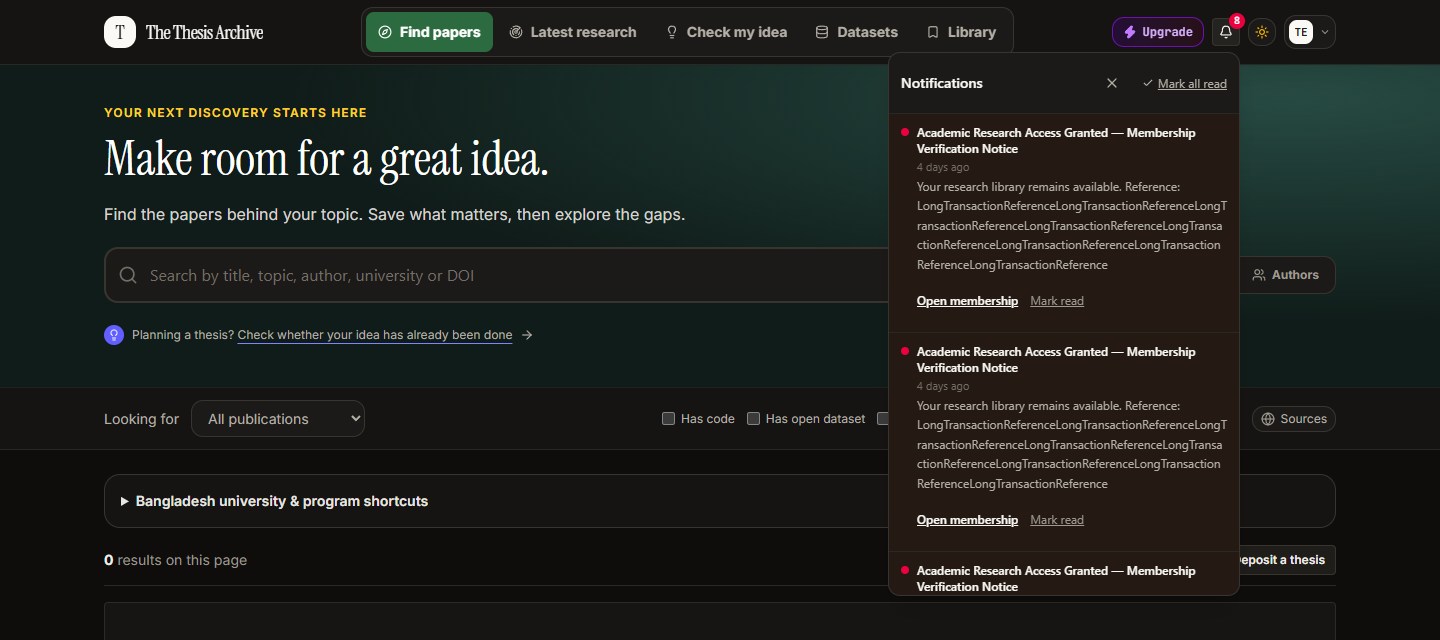
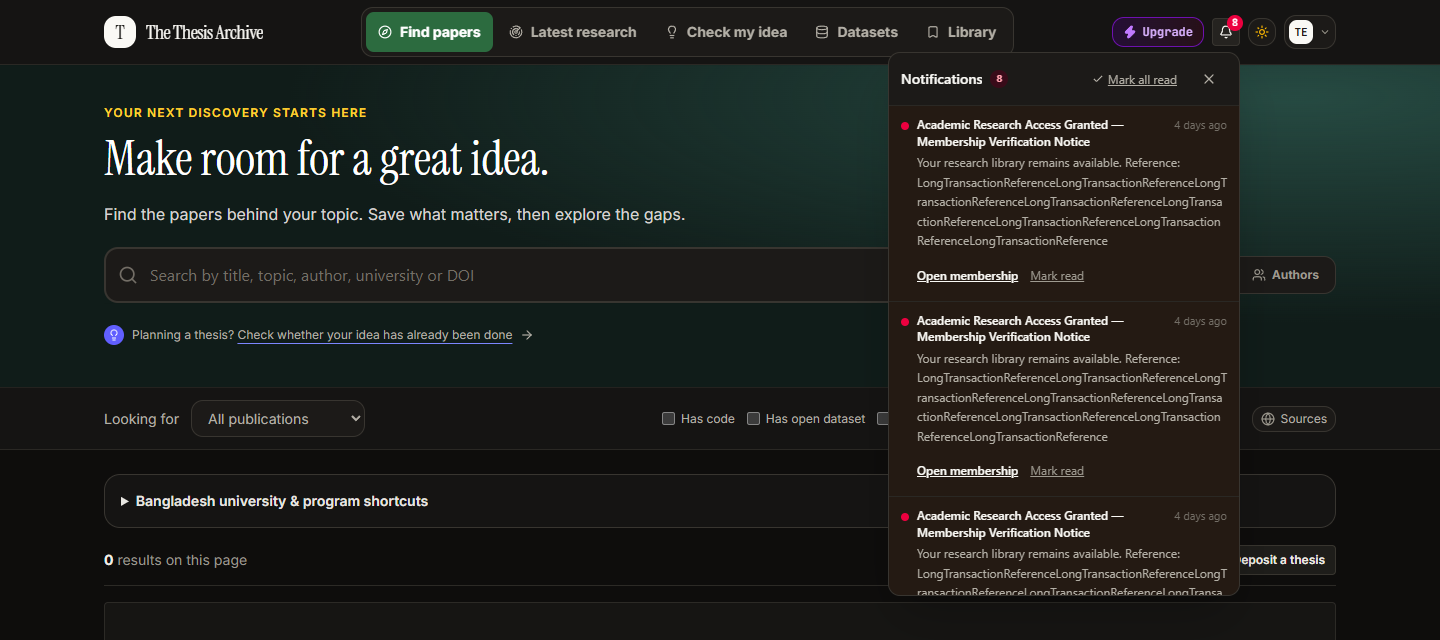
fix(mobile): prevent notification dialog overlap with mobile navigation, header, and page elements

diff --git a/frontend/src/components/NotificationBell.jsx b/frontend/src/components/NotificationBell.jsx
@@ -38,7 +38,11 @@ export default function NotificationBell({ onOpenFeedback, onOpenMembership, onO
       if (boxRef.current && !boxRef.current.contains(e.target)) setOpen(false);
     };
     document.addEventListener('mousedown', handleOutside);
-    return () => document.removeEventListener('mousedown', handleOutside);
+    document.addEventListener('touchstart', handleOutside, { passive: true });
+    return () => {
+      document.removeEventListener('mousedown', handleOutside);
+      document.removeEventListener('touchstart', handleOutside);
+    };
   }, [open]);
 
   const unread = items.filter((n) => !n.read).length;
@@ -83,85 +87,118 @@ export default function NotificationBell({ onOpenFeedback, onOpenMembership, onO
       >
         <Bell className="w-3.5 h-3.5" />
         {unread > 0 && (
-          <span className="absolute -top-1.5 -right-1.5 min-w-[16px] h-4 px-1 rounded-full bg-rose-600 text-white text-[10px] font-bold flex items-center justify-center">
+          <span className="absolute -top-1 -right-1 min-w-[16px] h-4 px-1 rounded-full bg-rose-600 text-white text-[10px] font-bold flex items-center justify-center pointer-events-none">
             {unread > 9 ? '9+' : unread}
           </span>
         )}
       </button>
 
       {open && (
-        <div
-          role="dialog"
-          aria-label="Notifications"
-          className="notification-panel fixed left-3 right-3 top-16 sm:absolute sm:left-auto sm:right-0 sm:top-full sm:mt-1.5 sm:w-[22rem] bg-white dark:bg-[#1C1A18] border border-[#D5D1C7] dark:border-[#383530] rounded-xl shadow-xl z-50 font-sans flex flex-col overflow-hidden"
-        >
-          <div className="flex flex-wrap items-center justify-between gap-2 px-3 py-2 shrink-0 border-b border-[#F2EFE8] dark:border-[#2A2824]">
-            <span className="text-sm font-semibold text-[#1C1B18] dark:text-[#FAF9F5]">Notifications</span>
-            <button type="button" onClick={() => setOpen(false)} aria-label="Close notifications" className="ml-auto min-w-11 min-h-11 flex items-center justify-center rounded-lg text-[#605D55] dark:text-[#B3AFA6] hover:bg-[#F2EFE8] dark:hover:bg-[#252320] cursor-pointer"><X className="w-4 h-4" /></button>
-            {unread > 0 && (
-              <button type="button" onClick={markAllRead} className="text-xs min-h-11 text-[#605D55] dark:text-[#B3AFA6] hover:text-[#1C1B18] dark:hover:text-white underline cursor-pointer inline-flex items-center gap-1">
-                <Check className="w-3 h-3" />
-                <span>Mark all read</span>
-              </button>
-            )}
-          </div>
+        <>
+          {/* Backdrop on mobile screens to prevent background tap & overlap collision */}
+          <div
+            className="fixed inset-0 bg-neutral-950/40 backdrop-blur-2xs z-40 sm:hidden"
+            onClick={() => setOpen(false)}
+            aria-hidden="true"
+          />
 
-          <div className="min-h-0 overflow-y-auto overscroll-contain">
-            {loading && items.length === 0 ? (
-              <p className="p-4 text-xs text-[#737067] dark:text-[#9E9A90]">Loading…</p>
-            ) : failed && items.length === 0 ? (
-              <div className="p-4 text-xs text-[#737067] dark:text-[#9E9A90] space-y-2">
-                <p>Notifications could not be loaded.</p>
-                <button type="button" onClick={load} className="underline font-semibold text-[#1C1B18] dark:text-[#FAF9F5] cursor-pointer">Try again</button>
+          <div
+            role="dialog"
+            aria-label="Notifications"
+            className="notification-panel fixed left-3 right-3 sm:left-auto sm:right-0 sm:absolute sm:top-full sm:mt-1.5 sm:w-[22rem] bg-white dark:bg-[#1C1A18] border border-[#D5D1C7] dark:border-[#383530] rounded-xl shadow-2xl z-50 font-sans flex flex-col overflow-hidden"
+          >
+            <div className="flex items-center justify-between gap-2 px-3 py-2 shrink-0 border-b border-[#F2EFE8] dark:border-[#2A2824]">
+              <div className="flex items-center gap-2 min-w-0">
+                <span className="text-sm font-semibold text-[#1C1B18] dark:text-[#FAF9F5] truncate">Notifications</span>
+                {unread > 0 && (
+                  <span className="px-1.5 py-0.5 text-[10px] font-bold rounded-full bg-rose-100 text-rose-700 dark:bg-rose-950/60 dark:text-rose-300">
+                    {unread}
+                  </span>
+                )}
               </div>
-            ) : items.length === 0 ? (
-              <p className="p-4 text-xs text-[#737067] dark:text-[#9E9A90] leading-relaxed">
-                Nothing yet. Replies from the team, membership updates and topic alerts will appear here.
-              </p>
-            ) : (
-              <ul className="divide-y divide-[#F2EFE8] dark:divide-[#2A2824]">
-                {items.map((n) => {
-                  const action = actionFor(n);
-                  return (
-                    <li key={n._id} className={`px-3 py-2.5 text-xs ${n.read ? '' : 'bg-amber-50/60 dark:bg-amber-950/20'}`}>
-                      <div className="flex items-start gap-2">
-                        <span className={`mt-1 w-2 h-2 rounded-full shrink-0 ${n.read ? 'bg-transparent' : 'bg-rose-600'}`} aria-hidden="true" />
-                        <div className="min-w-0 flex-1 space-y-0.5">
-                          <div className="flex flex-wrap items-baseline justify-between gap-x-2 gap-y-1">
-                            <span className="min-w-0 font-semibold text-[#1C1B18] dark:text-[#FAF9F5]">{n.title}</span>
-                            <span className="shrink-0 text-[11px] text-[#8C887E] dark:text-[#736E66]">{timeAgo(n.createdAt)}</span>
-                          </div>
-                          <p className="text-[#524F47] dark:text-[#B3AFA6] leading-relaxed break-words">{n.message}</p>
-                          <div className="flex flex-wrap items-center gap-x-3 pt-0.5 [&_button]:min-h-11">
-                            {action && (
-                              <button
-                                type="button"
-                                onClick={() => {
-                                  if (!n.read) markRead(n._id);
-                                  setOpen(false);
-                                  action.run();
-                                }}
-                                className="inline-flex items-center gap-1 underline font-semibold text-[#1C1B18] dark:text-[#FAF9F5] cursor-pointer"
-                              >
-                                {n.type === 'feedback_reply' && <MessageSquare className="w-3 h-3" />}
-                                <span>{action.label}</span>
-                              </button>
-                            )}
-                            {!n.read && (
-                              <button type="button" onClick={() => markRead(n._id)} className="underline text-[#605D55] dark:text-[#9E9A90] cursor-pointer">
-                                Mark read
-                              </button>
-                            )}
+              <div className="flex items-center gap-1.5 shrink-0">
+                {unread > 0 && (
+                  <button
+                    type="button"
+                    onClick={markAllRead}
+                    className="text-xs min-h-[36px] px-2 py-1 text-[#605D55] dark:text-[#B3AFA6] hover:text-[#1C1B18] dark:hover:text-white underline cursor-pointer inline-flex items-center gap-1"
+                  >
+                    <Check className="w-3 h-3" />
+                    <span>Mark all read</span>
+                  </button>
+                )}
+                <button
+                  type="button"
+                  onClick={() => setOpen(false)}
+                  aria-label="Close notifications"
+                  className="min-w-9 min-h-9 flex items-center justify-center rounded-lg text-[#605D55] dark:text-[#B3AFA6] hover:bg-[#F2EFE8] dark:hover:bg-[#252320] cursor-pointer"
+                >
+                  <X className="w-4 h-4" />
+                </button>
+              </div>
+            </div>
+
+            <div className="min-h-0 flex-1 overflow-y-auto overscroll-contain">
+              {loading && items.length === 0 ? (
+                <p className="p-4 text-xs text-[#737067] dark:text-[#9E9A90]">Loading…</p>
+              ) : failed && items.length === 0 ? (
+                <div className="p-4 text-xs text-[#737067] dark:text-[#9E9A90] space-y-2">
+                  <p>Notifications could not be loaded.</p>
+                  <button type="button" onClick={load} className="underline font-semibold text-[#1C1B18] dark:text-[#FAF9F5] cursor-pointer">Try again</button>
+                </div>
+              ) : items.length === 0 ? (
+                <p className="p-4 text-xs text-[#737067] dark:text-[#9E9A90] leading-relaxed">
+                  Nothing yet. Replies from the team, membership updates and topic alerts will appear here.
+                </p>
+              ) : (
+                <ul className="divide-y divide-[#F2EFE8] dark:divide-[#2A2824]">
+                  {items.map((n) => {
+                    const action = actionFor(n);
+                    return (
+                      <li key={n._id} className={`px-3 py-2.5 text-xs ${n.read ? '' : 'bg-amber-50/60 dark:bg-amber-950/20'}`}>
+                        <div className="flex items-start gap-2">
+                          <span className={`mt-1.5 w-2 h-2 rounded-full shrink-0 ${n.read ? 'bg-transparent' : 'bg-rose-600'}`} aria-hidden="true" />
+                          <div className="min-w-0 flex-1 space-y-1">
+                            <div className="flex items-start justify-between gap-2">
+                              <span className="min-w-0 font-semibold text-[#1C1B18] dark:text-[#FAF9F5] leading-snug break-words">{n.title}</span>
+                              <span className="shrink-0 text-[11px] text-[#8C887E] dark:text-[#736E66] mt-0.5">{timeAgo(n.createdAt)}</span>
+                            </div>
+                            <p className="text-[#524F47] dark:text-[#B3AFA6] leading-relaxed break-words">{n.message}</p>
+                            <div className="flex flex-wrap items-center gap-x-3 gap-y-1.5 pt-1">
+                              {action && (
+                                <button
+                                  type="button"
+                                  onClick={() => {
+                                    if (!n.read) markRead(n._id);
+                                    setOpen(false);
+                                    action.run();
+                                  }}
+                                  className="inline-flex items-center gap-1 min-h-[32px] py-1 underline font-semibold text-[#1C1B18] dark:text-[#FAF9F5] cursor-pointer"
+                                >
+                                  {n.type === 'feedback_reply' && <MessageSquare className="w-3 h-3" />}
+                                  <span>{action.label}</span>
+                                </button>
+                              )}
+                              {!n.read && (
+                                <button
+                                  type="button"
+                                  onClick={() => markRead(n._id)}
+                                  className="inline-flex items-center min-h-[32px] py-1 underline text-[#605D55] dark:text-[#9E9A90] cursor-pointer"
+                                >
+                                  Mark read
+                                </button>
+                              )}
+                            </div>
                           </div>
                         </div>
-                      </div>
-                    </li>
-                  );
-                })}
-              </ul>
-            )}
+                      </li>
+                    );
+                  })}
+                </ul>
+              )}
+            </div>
           </div>
-        </div>
+        </>
       )}
     </div>
   );

diff --git a/frontend/src/components/InstallAppPrompt.jsx b/frontend/src/components/InstallAppPrompt.jsx
@@ -10,7 +10,7 @@ export default function InstallAppPrompt() {
   if (dismissed || window.matchMedia('(display-mode: standalone)').matches) return null;
   const ios = /iPad|iPhone|iPod/.test(navigator.userAgent);
   if (!prompt && !ios) return null;
-  return <aside className="fixed bottom-24 sm:bottom-6 right-4 left-4 sm:left-auto sm:max-w-sm z-40 bg-white dark:bg-[#201F1C] border rounded-2xl p-4 shadow-xl text-sm space-y-2">
+  return <aside className="fixed bottom-24 sm:bottom-6 right-4 left-4 sm:left-auto sm:max-w-sm z-30 bg-white dark:bg-[#201F1C] border rounded-2xl p-4 shadow-xl text-sm space-y-2">
     <p className="font-semibold">Keep your research close</p><p>{ios ? 'In Safari, tap Share, then Add to Home Screen.' : 'Install the archive for an app view and offline library snapshots.'}</p>
     <div className="flex gap-3">{prompt && <button type="button" onClick={async () => { await prompt.prompt(); await prompt.userChoice; setPrompt(null); }} className="rounded-lg bg-[#254B40] text-white px-3 py-2">Add to home screen</button>}<button type="button" onClick={() => setDismissed(true)} className="underline">Later</button></div>
   </aside>;

diff --git a/frontend/src/index.css b/frontend/src/index.css
@@ -16,10 +16,14 @@
 }
 .research-header nav button { min-height: 40px; }
 .research-header nav { gap: 4px; }
-/* Anchor the mobile inbox to the viewport, not to the bell's right edge. */
+/* Anchor the mobile inbox to the viewport, preventing header or bottom navigation overlap. */
 .notification-panel { max-height: min(36rem, calc(100dvh - 6rem)); overflow-wrap: anywhere; }
 @media (max-width: 639px) {
-  .notification-panel { max-height: calc(100dvh - 10rem - env(safe-area-inset-bottom)); }
+  .notification-panel {
+    top: calc(56px + 8px);
+    max-height: calc(100dvh - 56px - 76px - env(safe-area-inset-bottom) - 24px);
+    bottom: auto;
+  }
 }
 @media (max-width: 639px) {
   .research-shell { padding-bottom: calc(76px + env(safe-area-inset-bottom)); }

diff --git a/frontend/src/components/Header.jsx b/frontend/src/components/Header.jsx
@@ -68,7 +68,7 @@ export default function Header({
   };
 
   return (
-    <header className="research-header bg-white dark:bg-[#151413] border-b border-[#E2DFD8] dark:border-[#2A2824] sticky top-0 z-30 shadow-2xs transition-colors">
+    <header className="research-header bg-white dark:bg-[#151413] border-b border-[#E2DFD8] dark:border-[#2A2824] sticky top-0 z-40 shadow-2xs transition-colors">
       <div className="max-w-7xl mx-auto px-4 md:px-6">
         <div className="flex items-center justify-between h-14 md:h-16 gap-3">
           <button
